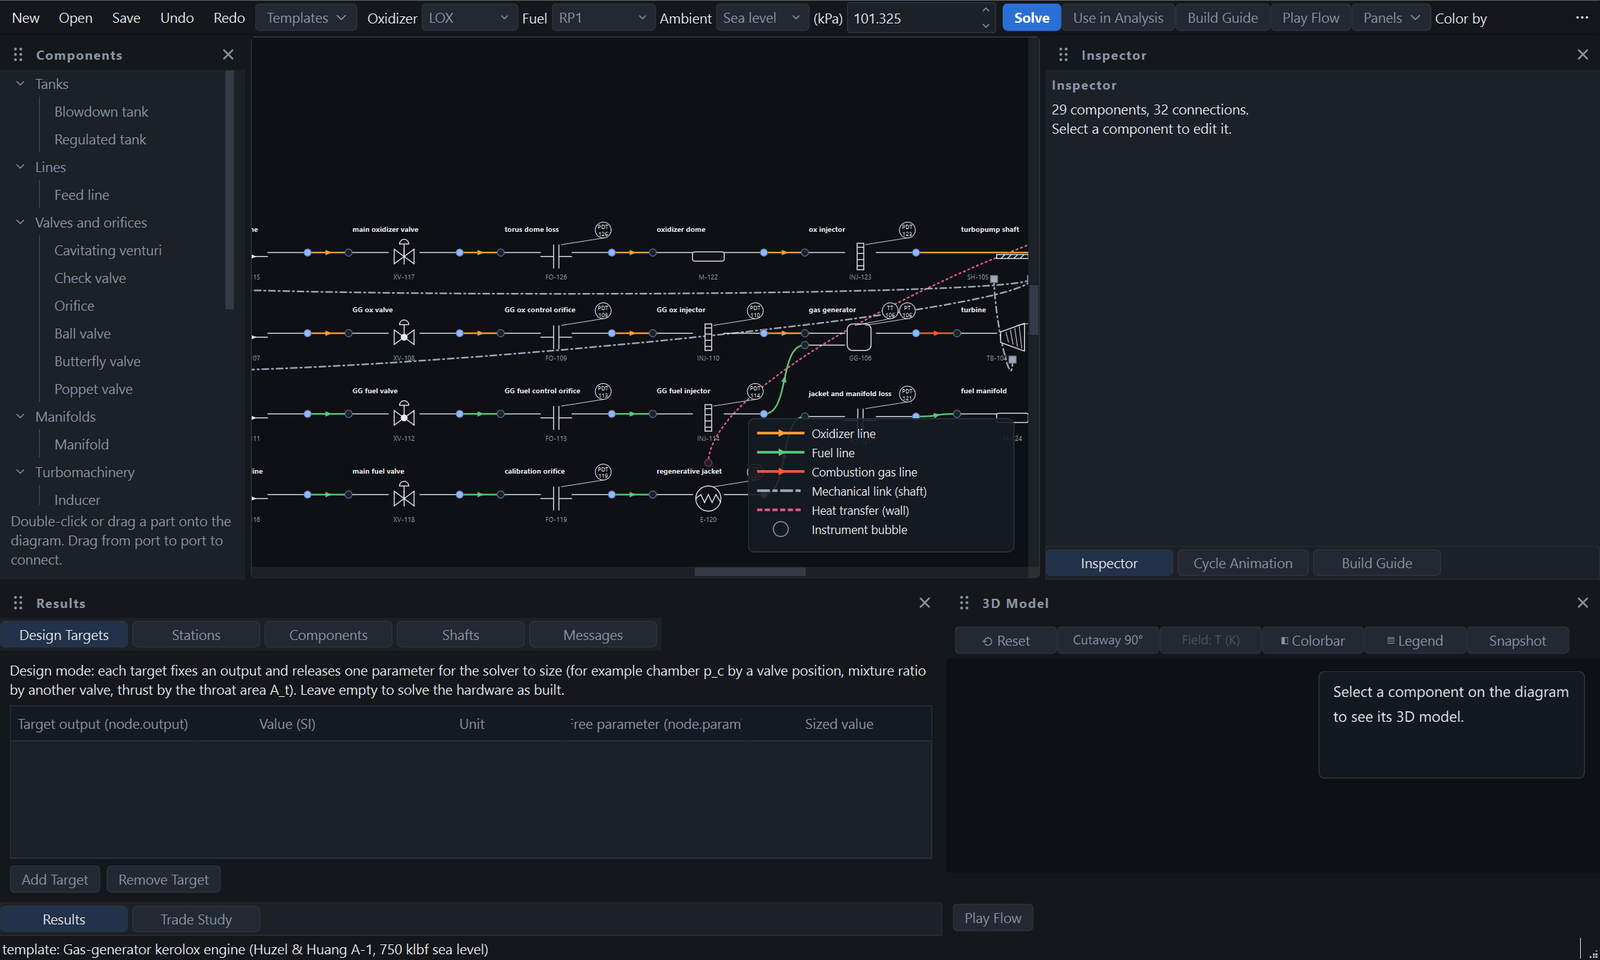
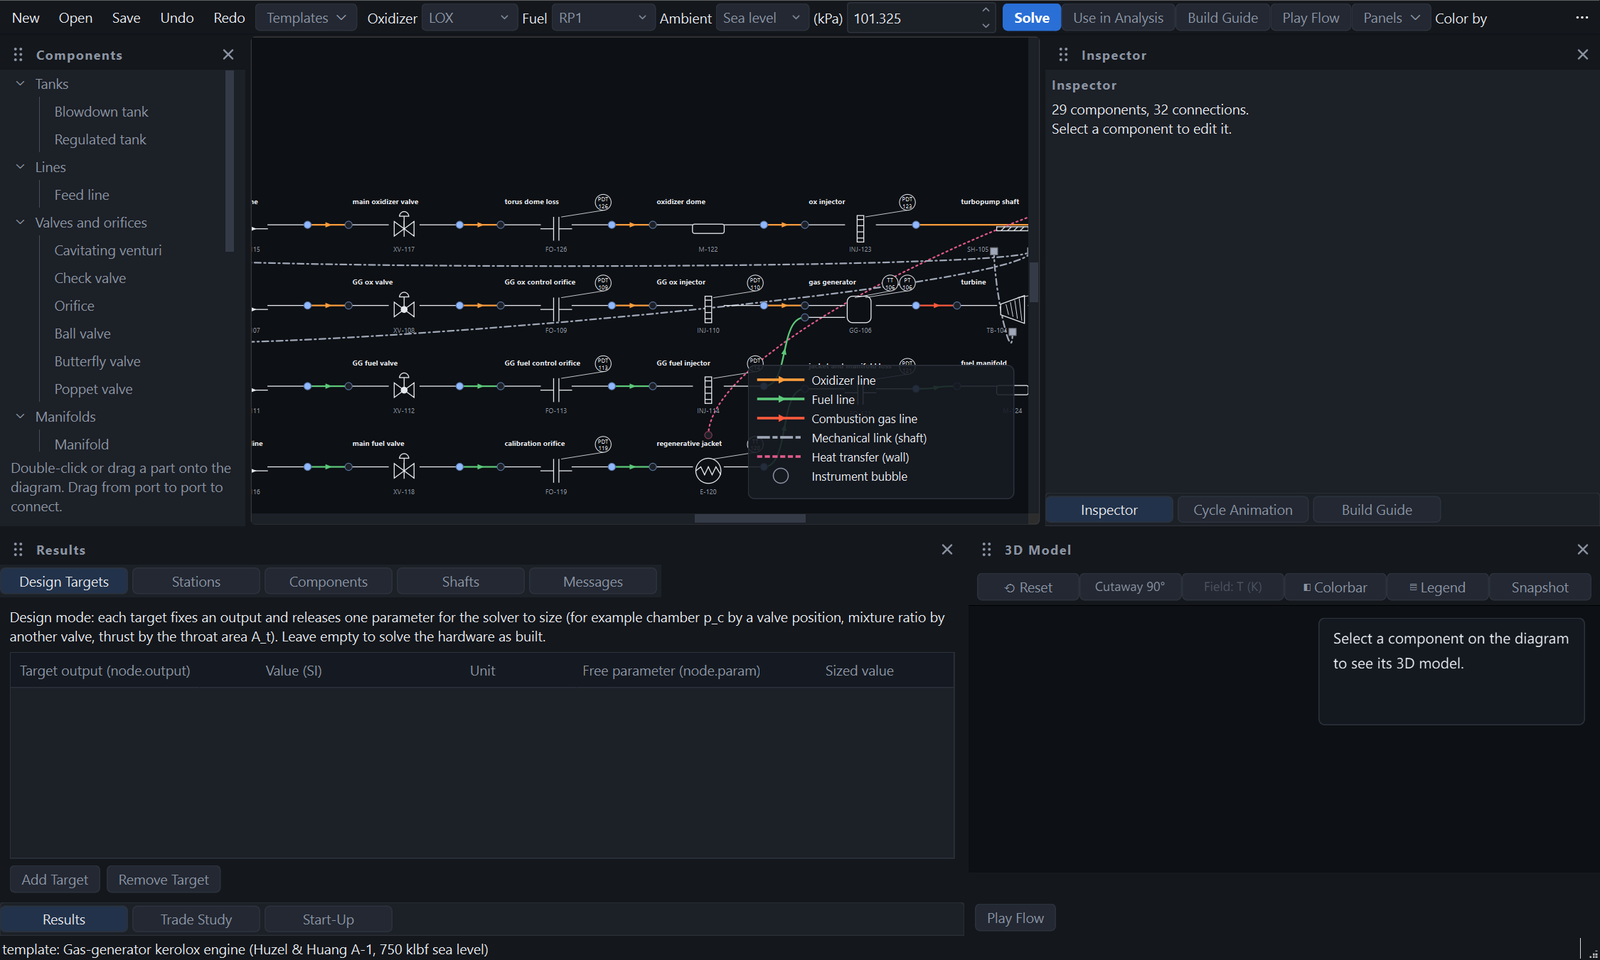
Theme frame test checks the mapping; gallery images for the motor designers and the liquid engine designer

diff --git a/tests/ui/test_theme.py b/tests/ui/test_theme.py
@@ -87,17 +87,17 @@ def test_dialog_and_persistence(app, tmp_path):
 
 
 def test_window_frames_follow_the_theme(qapp, tmp_path):
-    """The light theme must not leave black system title bars on dialogs."""
+    """The light theme must not leave black system title bars on dialogs: the scheme follows the theme (the offscreen
+    platform of the tests does not report it back, so the mapping and the call are checked)."""
     from PySide6.QtCore import Qt
-    from PySide6.QtGui import QGuiApplication
-    from propsim.ui.main_window import MainWindow
-    from propsim.ui.theme import theme
+    from propsim.ui.main_window import MainWindow, color_scheme_for
+    from propsim.ui.theme import THEME_NAMES, theme
+    assert color_scheme_for("light") == Qt.ColorScheme.Light
+    assert all(color_scheme_for(n) == Qt.ColorScheme.Dark for n in THEME_NAMES if n != "light")
     w = MainWindow(home=tmp_path, use_settings=False)
     try:
         theme.set("light")
-        assert QGuiApplication.styleHints().colorScheme() == Qt.ColorScheme.Light
-        theme.set("dark")
-        assert QGuiApplication.styleHints().colorScheme() == Qt.ColorScheme.Dark
+        theme.set("dark")                                       # switching themes runs the sync without error
     finally:
         theme.set("dark")
     del w

diff --git a/propsim/ui/main_window.py b/propsim/ui/main_window.py
@@ -37,6 +37,11 @@ MODULE_TITLES = {"Hybrid": "Hybrid Rocket", "Liquid": "Liquid Engine", "Solid": 
 KEY_ROLE = Qt.UserRole + 1
 
 
+def color_scheme_for(theme_name: str):
+    """The system color scheme (title bars, dialogs) that goes with a theme: light for Light, dark for the others."""
+    return Qt.ColorScheme.Light if theme_name == "light" else Qt.ColorScheme.Dark
+
+
 def app_settings() -> QSettings:
     """The app's settings store: the registry on Windows; tests switch the default format to a temporary INI file."""
     return QSettings(QSettings.defaultFormat(), QSettings.UserScope, "PropSim", "PropSim")
@@ -329,7 +334,7 @@ class MainWindow(QMainWindow):
         dialog in the light theme does not get a black title bar."""
         from PySide6.QtGui import QGuiApplication
         try:
-            QGuiApplication.styleHints().setColorScheme(Qt.ColorScheme.Light if theme.name == "light" else Qt.ColorScheme.Dark)
+            QGuiApplication.styleHints().setColorScheme(color_scheme_for(theme.name))
         except (AttributeError, RuntimeError):                  # Qt older than 6.8: the system scheme stays
             pass
 

diff --git a/README.md b/README.md
@@ -279,11 +279,11 @@ Questions and bug reports: [GitHub Issues](https://github.com/Chiyami1213/propsi
     <td><img src="docs/gallery/32-spring-mass.png" alt="Spring-mass: damped spring-mass, a proof of the Run pipeline (not a propulsion model)"><br><sub><b>Spring-mass</b> (Toy, Run)</sub></td>
   </tr>
   <tr>
-    <td><img src="docs/gallery/cycle-sandbox.png" alt="Liquid engine designer: flow-diagram editor for building and solving liquid engine cycles"><br><sub><b>Cycle sandbox</b> (Liquid, Editor)</sub></td>
-    <td><img src="docs/gallery/grain-designer-solid.png" alt="Grain designer (solid): design the port and grain stack, see the whole grain in 3D with a side-view cutaway, and read the burning perimeter, port area and remaining propellant"><br><sub><b>Grain designer</b> (Solid, Editor)</sub></td>
+    <td><img src="docs/gallery/cycle-sandbox.png" alt="Liquid engine designer: flow-diagram editor for building and solving liquid engine cycles"><br><sub><b>Liquid engine designer</b> (Editor)</sub></td>
+    <td><img src="docs/gallery/grain-designer-solid.png" alt="Solid motor designer: design the port and grain stack, see the whole grain in 3D with a side-view cutaway, and read the burning perimeter, port area and remaining propellant"><br><sub><b>Solid motor designer</b> (Editor)</sub></td>
   </tr>
   <tr>
-    <td><img src="docs/gallery/grain-designer-hybrid.png" alt="Grain designer (hybrid): design the port and grain stack, see the whole grain in 3D with a side-view cutaway, and read the burning perimeter, port area and remaining propellant"><br><sub><b>Grain designer</b> (Hybrid, Editor)</sub></td>
+    <td><img src="docs/gallery/grain-designer-hybrid.png" alt="Hybrid motor designer: design the port and grain stack, see the whole grain in 3D with a side-view cutaway, and read the burning perimeter, port area and remaining propellant"><br><sub><b>Hybrid motor designer</b> (Editor)</sub></td>
     <td></td>
   </tr>
 </table>
